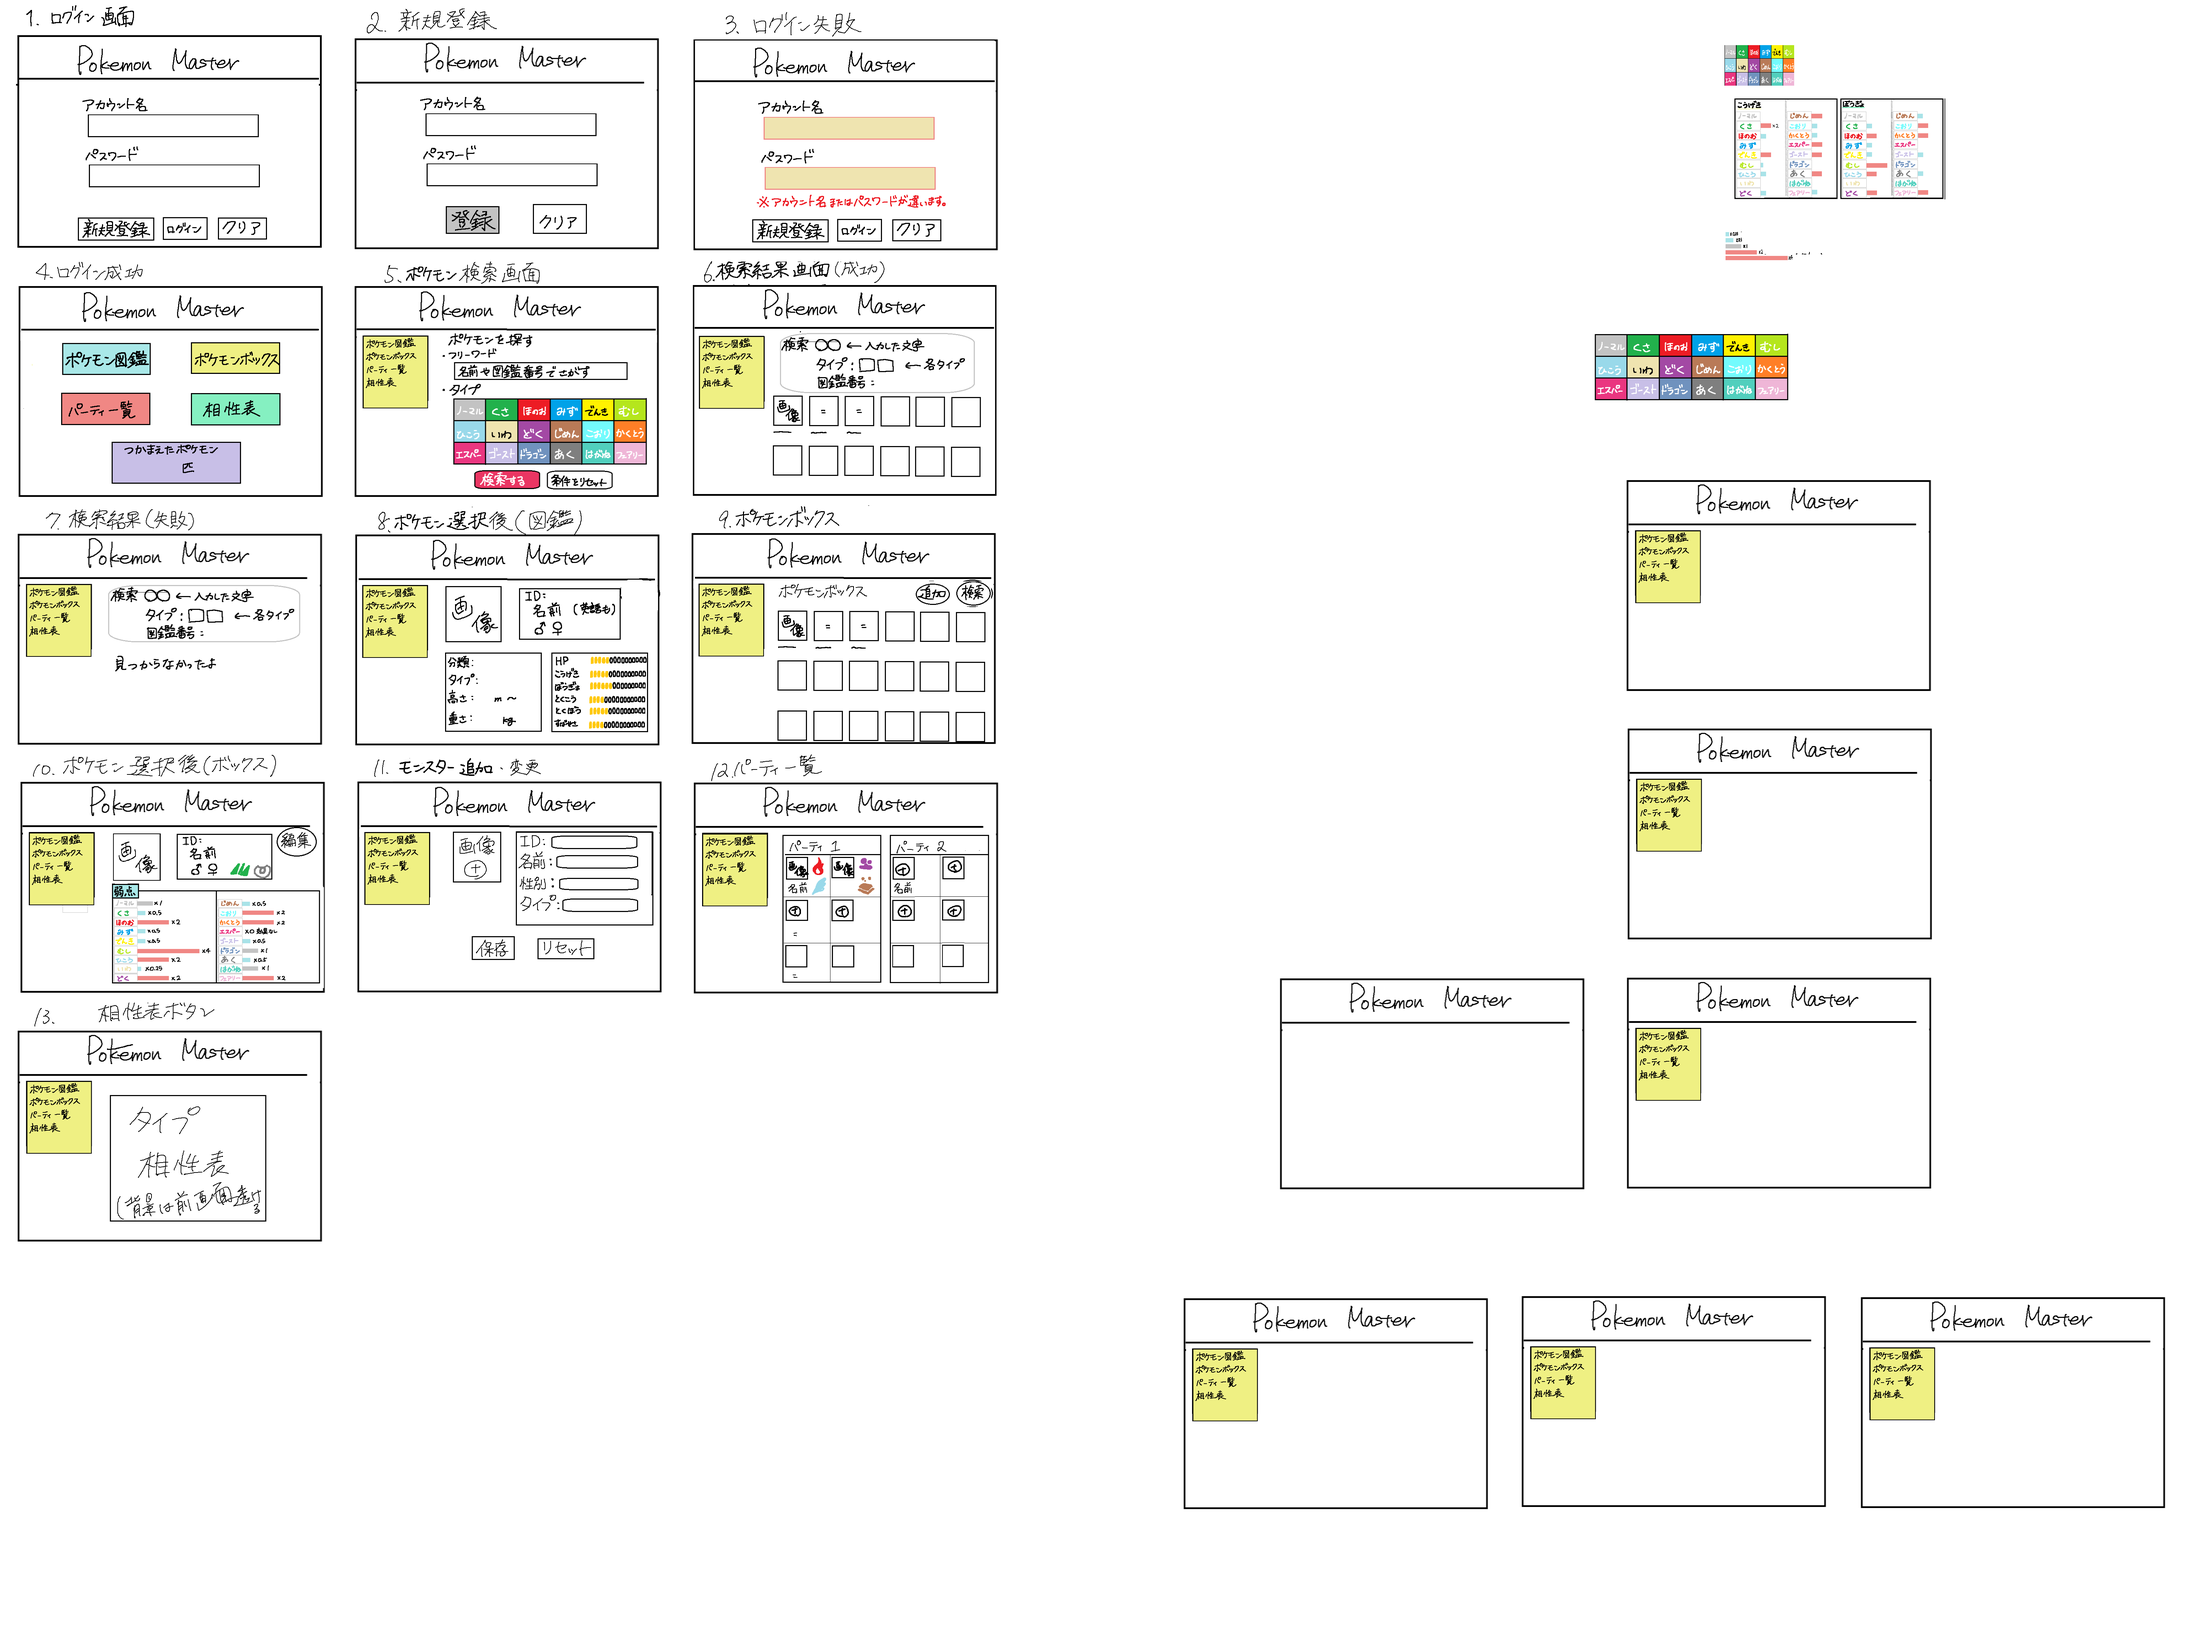
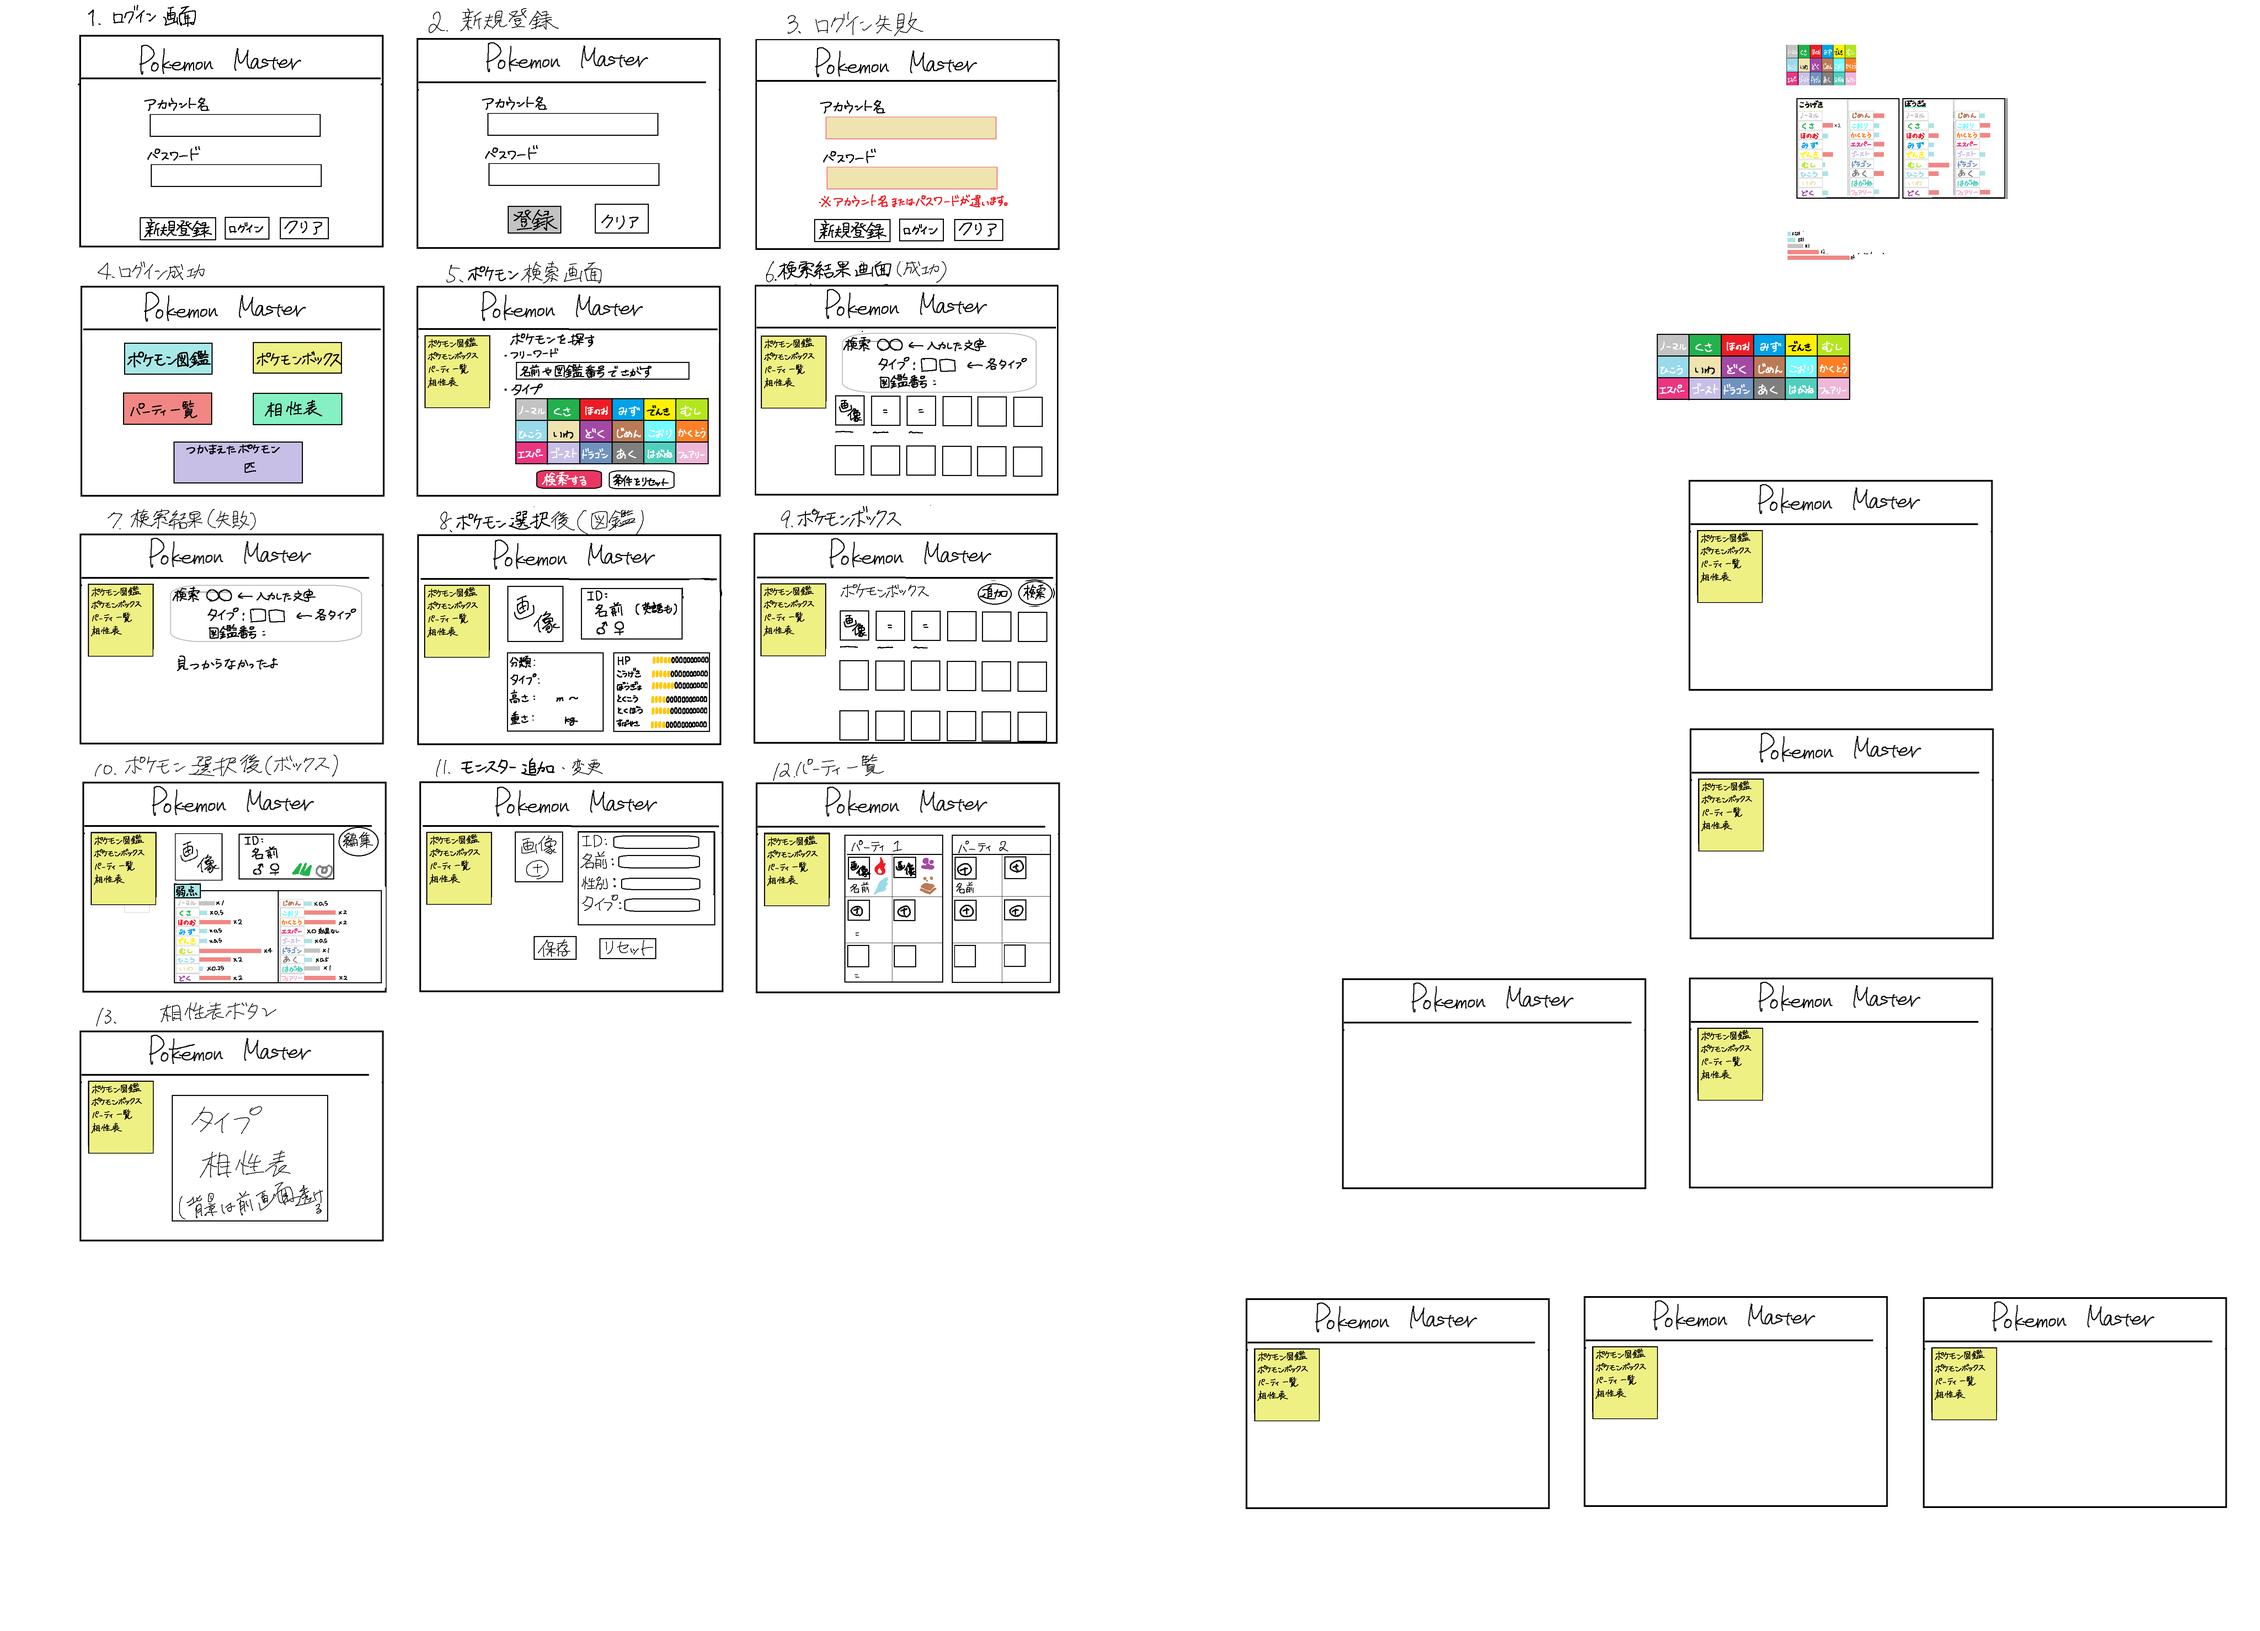
設計書作成（ユーザ登録について）

diff --git a/docs/API/ユーザー登録API.md b/docs/API/ユーザー登録API.md
@@ -1,0 +1,58 @@
+# ユーザー登録API
+
+## 基本情報
+
+| 項目 | 内容 |
+|---|---|
+| API名称 | ユーザー登録API |
+| HTTPメソッド | POST |
+| URL | /register |
+| 認証要否 | 不要 |
+
+## リクエスト
+
+### パスパラメータ
+
+| 英名 | 型 | 必須 | 備考 |
+|---|---|---|---|
+なし
+
+### クエリパラメータ
+
+| 英名 | 型 | 必須 | 備考 |
+|---|---|---|---|
+なし
+
+### リクエストボディ
+
+| 英名 | 型 | 必須 | 備考 |
+|---|---|---|---|
+| username | string(12) | o | ログインに使用するユーザー名 |
+| password | string(64) | o | ログインに使用するパスワード |
+
+## レスポンス
+
+| 英名 | 型 | 備考 |
+|---|---|---|---|
+なし
+
+## ステータスコード
+
+| コード | 条件 |
+|---|---|
+| 201 | 正常終了 |
+| 400 | 入力エラー |
+
+## 備考
+
+- 入力内容の条件未達成の時、以下が発生する
+  - アカウント名入力
+    - 英数字・平仮名・カタカナのみ入力してください
+    - 英数字は全角で入力してください
+    - 1~12文字で入力してください
+  - パスワード入力時
+    - 英数字・記号のみ入力してください
+    - 英数字は半角で入力してください
+    - 6文字以上で入力してください
+
+

diff --git a/docs/要件定義.md b/docs/要件定義.md
@@ -983,7 +983,7 @@
   - 記号
 - エラー時の表示内容：
   - 英数字・平仮名・カタカナのみ入力してください
-  - 英数字は半角で入力してください
+  - 英数字は全角で入力してください
   - 1~12文字で入力してください
 
 ### 入力項目2
@@ -1013,15 +1013,15 @@
   - 整数
 - 文字数・数値範囲：1~6文字
 - 許可する値：
-  - 半角英数字
+  - 全角英数字
   - 平仮名
   - カタカナ
   - 記号
 - 許可しない値：
   - 漢字
 - エラー時の表示内容：
-  - 半角英数字・平仮名・カタカナ・記号のみ入力してください
-  - 英数字は半角で入力してください
+  - 全角英数字・平仮名・カタカナ・記号のみ入力してください
+  - 英数字は全角で入力してください
   - 1~6文字で入力してください
 
   ### 入力項目4
@@ -1087,7 +1087,7 @@
 - 表示方法：
   - 文字または数字を入力してください
   - 見つかりませんでした
-  - 半角英数字・平仮名・カタカナ・記号のみ入力してください
+  - 全角英数字・平仮名・カタカナ・記号のみ入力してください
   
 ### 12.2 Backendのエラー
 - 想定するケース：

diff --git a/docs/WEB/ユーザー登録画面.md b/docs/WEB/ユーザー登録画面.md
@@ -1,0 +1,40 @@
+# ユーザー登録画面
+
+## レイアウト
+
+![alt text](ユーザー登録画面.png)// ここにレイアウト画像を貼り付け
+
+## 基本情報
+
+| 項目 | 内容 |
+|---|---|
+| 画面名 | 新規登録 画面 |
+| URL | `/register` |
+| 認証要否 | 不要 |
+| 共通ヘッダー | 要 |
+| 共通サイドバー | 不要 |
+
+## 画面遷移
+
+| 操作 | 遷移先 |
+|---|---|
+| 登録ボタン押下 | ログイン画面に遷移 |
+| 相性表リンク押下 | 相性表モーダルを表示 |
+
+## 使用API
+
+| 操作 | API |
+|---|---|
+| 新規登録ボタン押下 | ユーザー登録API |
+
+## 備考
+
+- 入力エラーの場合、以下を表示する
+  - アカウント名入力
+    - 英数字・平仮名・カタカナのみ入力してください
+    - 英数字は全角で入力してください
+    - 1~12文字で入力してください
+  - パスワード入力時
+    - 英数字・記号のみ入力してください
+    - 英数字は半角で入力してください
+    - 6文字以上で入力してください

diff --git a/docs/WEB/ログイン画面.md b/docs/WEB/ログイン画面.md
@@ -8,12 +8,6 @@
 
 | 項目 | 内容 |
 |---|---|
-|ヘッダー|アプリ名記載|
-|ニックネーム入力欄|ニックネームを入力する|
-|パスワード入力欄|パスワードを入力する|
-|ログインボタン|ログインするためのボタン|
-|クリアボタン|入力内容をすべてクリアするためのボタン|
-|新規登録リンク|アカウントを作成するためのリンク|
 | 画面名 | ログイン画面 |
 | URL | `/login` |
 | 認証要否 | 不要 |
@@ -25,7 +19,6 @@
 | 操作 | 遷移先 |
 |---|---|
 | ログインボタン押下 | ホーム画面に遷移（ログイン成功時） |
-| ログインボタン押下 | ログイン失敗画面に遷移（ログイン失敗時） |
 | 新規登録リンク押下 | 新規登録画面に遷移 |
 | 相性表リンク押下 | 相性表モーダルを表示 |
 
@@ -34,8 +27,6 @@
 | 操作 | API |
 |---|---|
 | ログインボタン押下 | ログインAPI |
-| クリアボタン押下 | なし |
-| 新規登録リンク押下 | アカウント登録API |
 
 ## 備考
 

diff --git a/docs/API/ログインAPI.md b/docs/API/ログインAPI.md
@@ -28,13 +28,12 @@
 | 英名 | 型 | 必須 | 備考 |
 |---|---|---|---|
 | username | string(12) | o | ログインに使用するユーザー名 |
-| password | string | o | ログインに使用するパスワード |
+| password | string(64) | o | ログインに使用するパスワード |
 
 ## レスポンス
 
 | 英名 | 型 | 備考 |
 |---|---|---|---|
-| userID | INT | ログインしたユーザーのID |
 | username | string | ユーザー名 |
 
 ## ステータスコード
@@ -44,7 +43,6 @@
 | 200 | ログイン成功 |
 | 400 | 入力エラー |
 | 401 | 認証失敗 |
-| 500 | ログイン処理失敗 |
 
 ## 備考
 

diff --git a/docs/DB/ユーザーテーブル.md b/docs/DB/ユーザーテーブル.md
@@ -15,4 +15,4 @@
 | 英名 | 和名 | 型 | 必須 | PK/FK | 備考 |
 |---|---|---|---|---|---|
 | username | ユーザーネーム | varchar（12） | o | PK | 重複を許可しない |
-| password | パスワード | varchar | o | PK | 6文字以上 |
+| password | パスワード | varchar(64) | o | FK |  |
